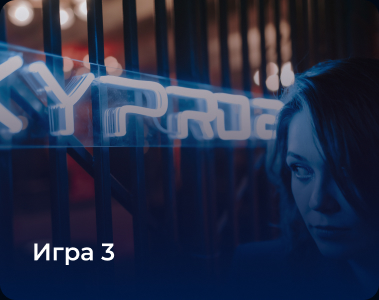
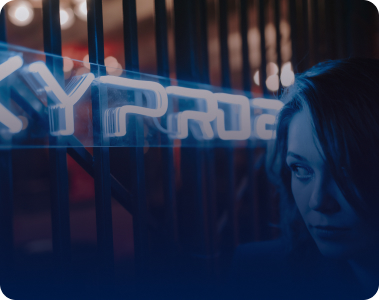
added main_catalog

diff --git a/index.html b/index.html
@@ -14,22 +14,21 @@
         <div class="header">
             <h1 class="header_title" >Добро пожаловать <br> на мой сайт!</h1>
             <p class="header__text">Вам предстоит пройти несколько увлекательных <br> игр. Если готов нажимай 
-                <span class="bolt">поехали</span>  и 
-                <span class="bolt">приступай</span></p>
-            <div class="header_button">Поехали!</div>
+            <span class="bolt">поехали</span>  и 
+            <span class="bolt">приступай</span></p>
+            <a class="header_button" href="#">Поехали!</a>
         </div>
     </div>
     <div class="main_catalog center">
-            <div class="main">
-                <div class="main__game main__game1" src="./img/game_1.jpg" alt="Game1">
-                <p class="text_game">Игра 1</p>
-                </div>
-                <div class="main__game main__game2" src="./img/game_2.jpg" alt="Game2">
-                <p class="text_game">Игра 2</p>
-                </div>
-                <div class="main__game main__game3" src="./img/game_3.jpg" alt="Game3">
-                <p class="text_game">Игра 3</p>
-            </div>
+        <div class="main">
+            <div class="main__game main__game1"><a class="text_game" href="#">Игра 1</a></div>
+            <div class="main__game main__game2"><a class="text_game" href="#">Игра 2</a></div>
+            <div class="main__game main__game3"><a class="text_game" href="#">Игра 3</a></div>
+        </div>
     </div>
 </body>
 </html>
+
+
+
+

diff --git a/style.css b/style.css
@@ -89,6 +89,8 @@ span.bolt{
 .main__game{
     grid-column: span 4;
     height: 300px;
+    border-radius: 16px;
+    background: linear-gradient(180deg, rgba(39, 1, 15, 0.00) 0%, #001944 100%), url(<path-to-image>), lightgray 50% / cover no-repeat;
 }
 
 .main__game1{
@@ -101,4 +103,17 @@ span.bolt{
 
 .main__game3{
     background-image: url(./img/game_3.jpg);
+}
+
+.text_game{
+    display: flex;
+    flex-direction: column;
+    justify-content: center;
+    padding-left: 32px;
+    padding-top: 236px;
+    color: #FFF;
+    font-size: 24px;
+    font-style: normal;
+    font-weight: 600;
+    line-height: 32px; /* 133.333% */
 }
